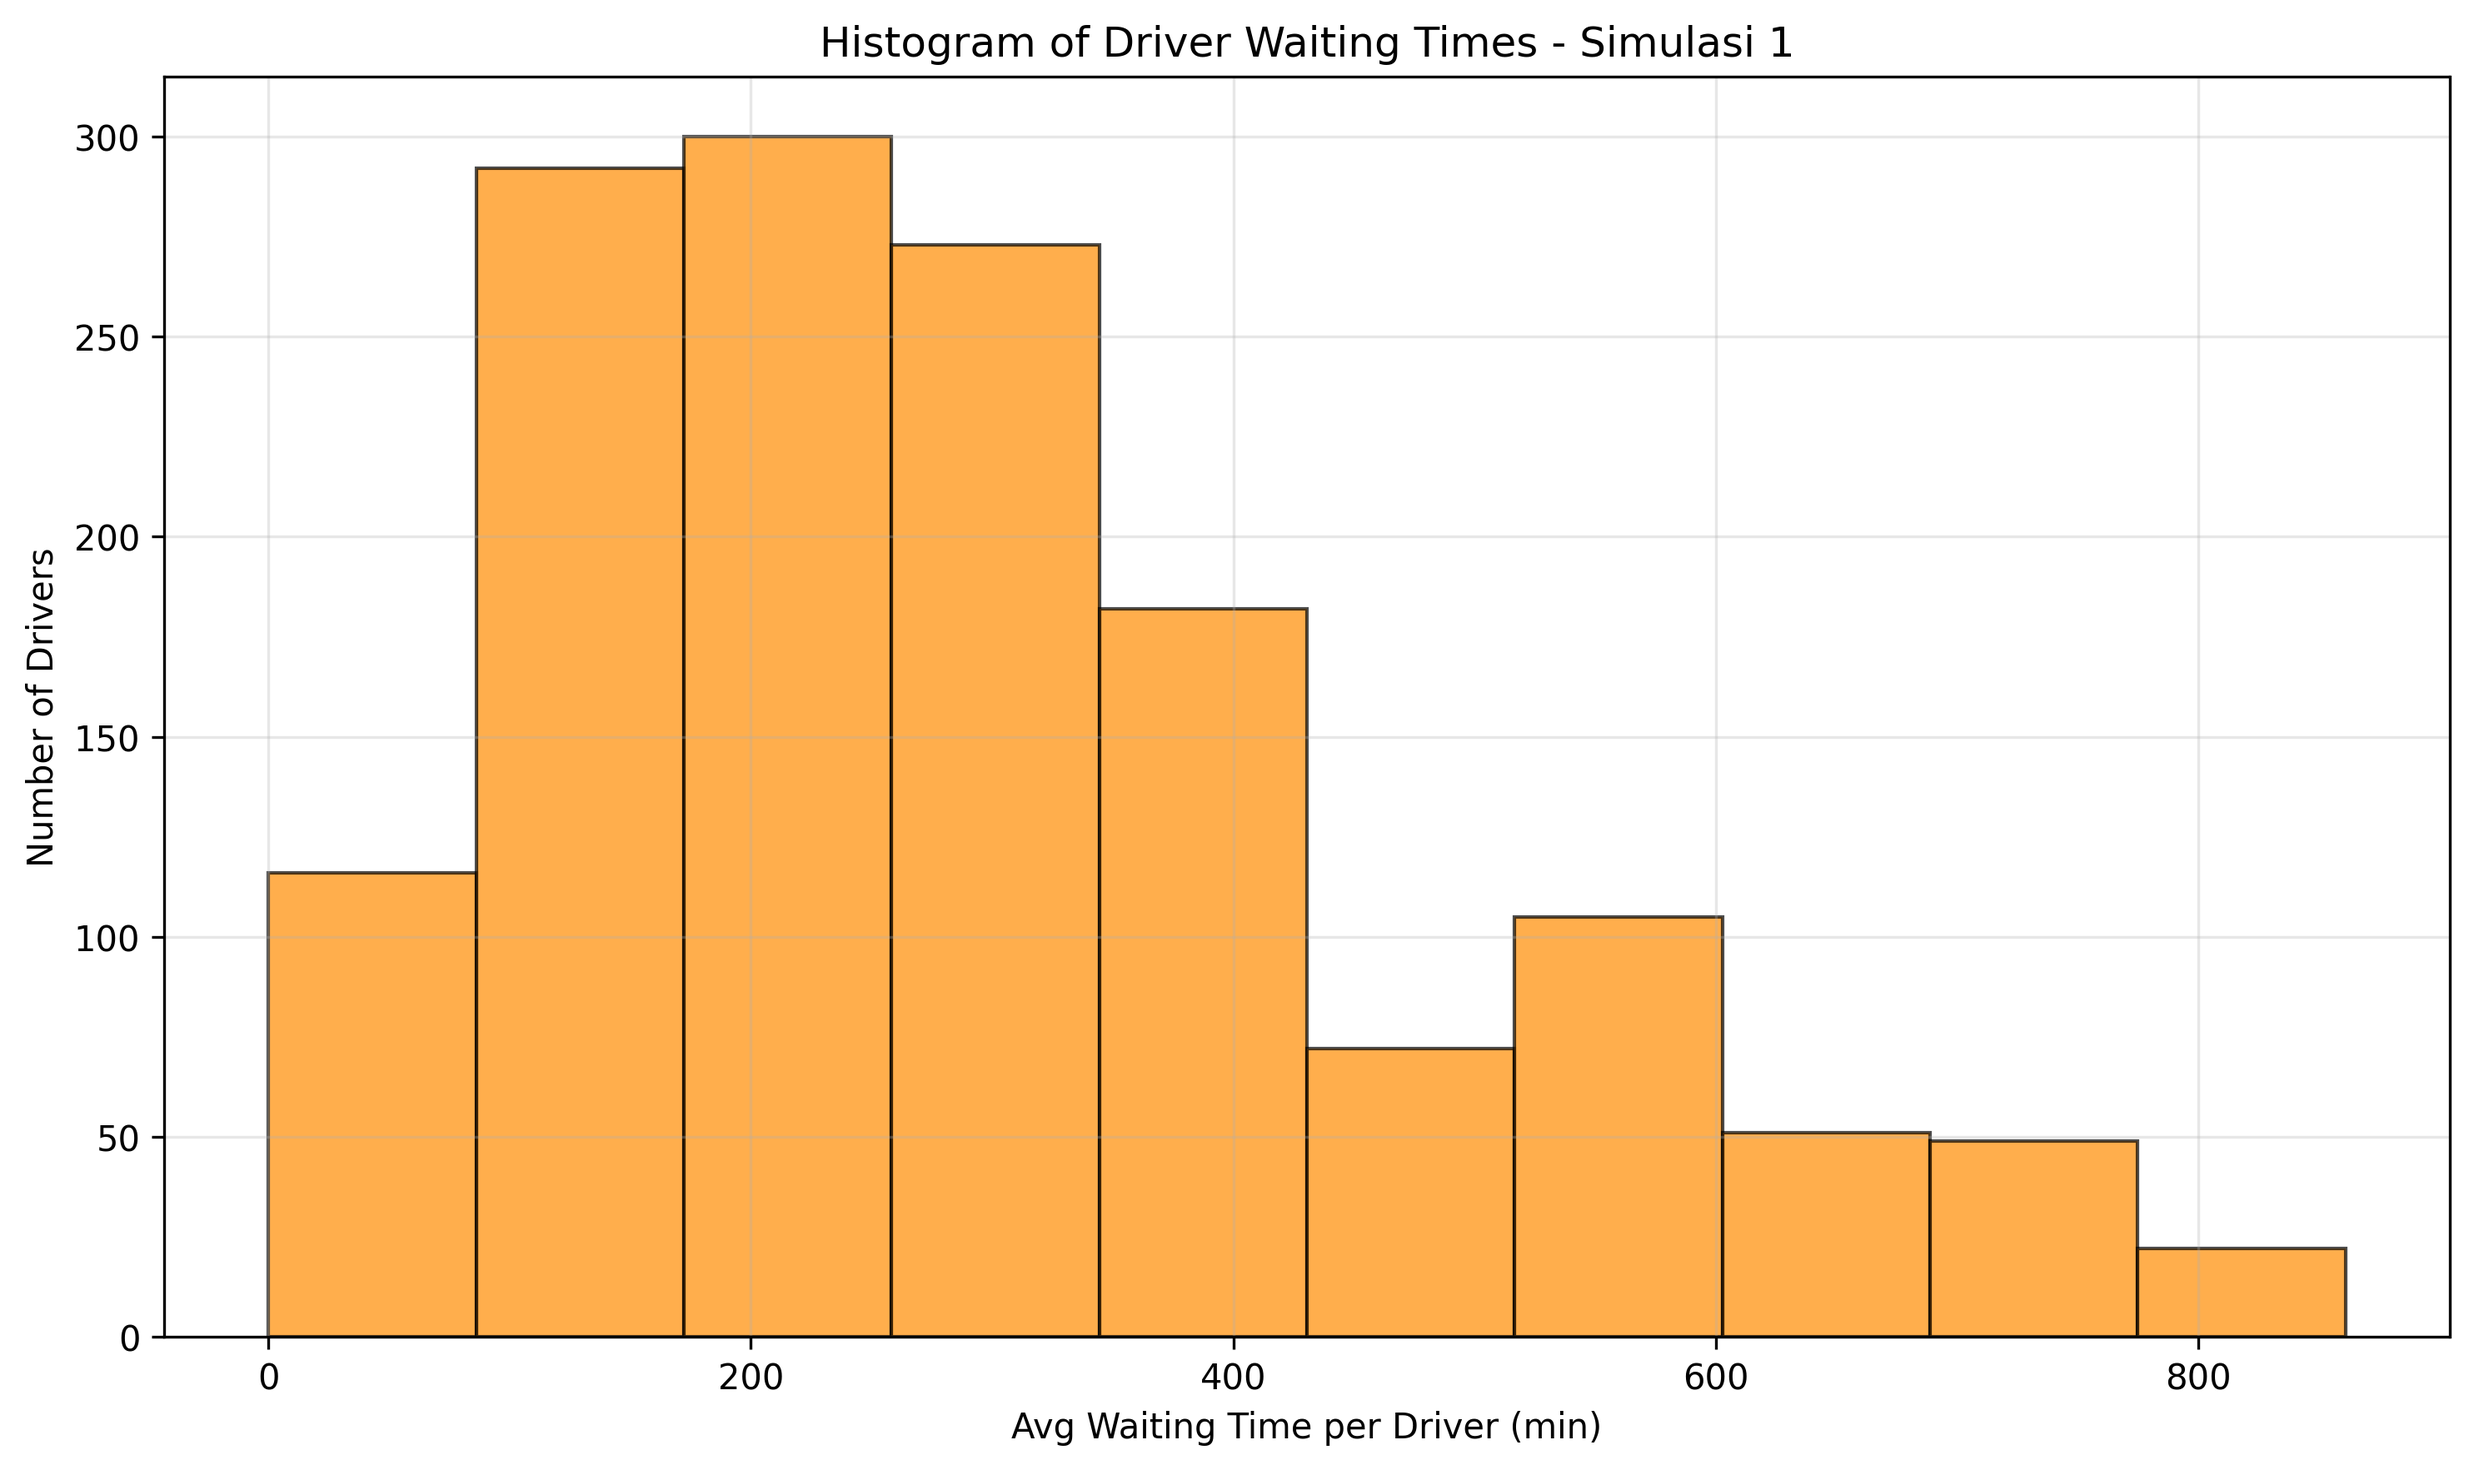
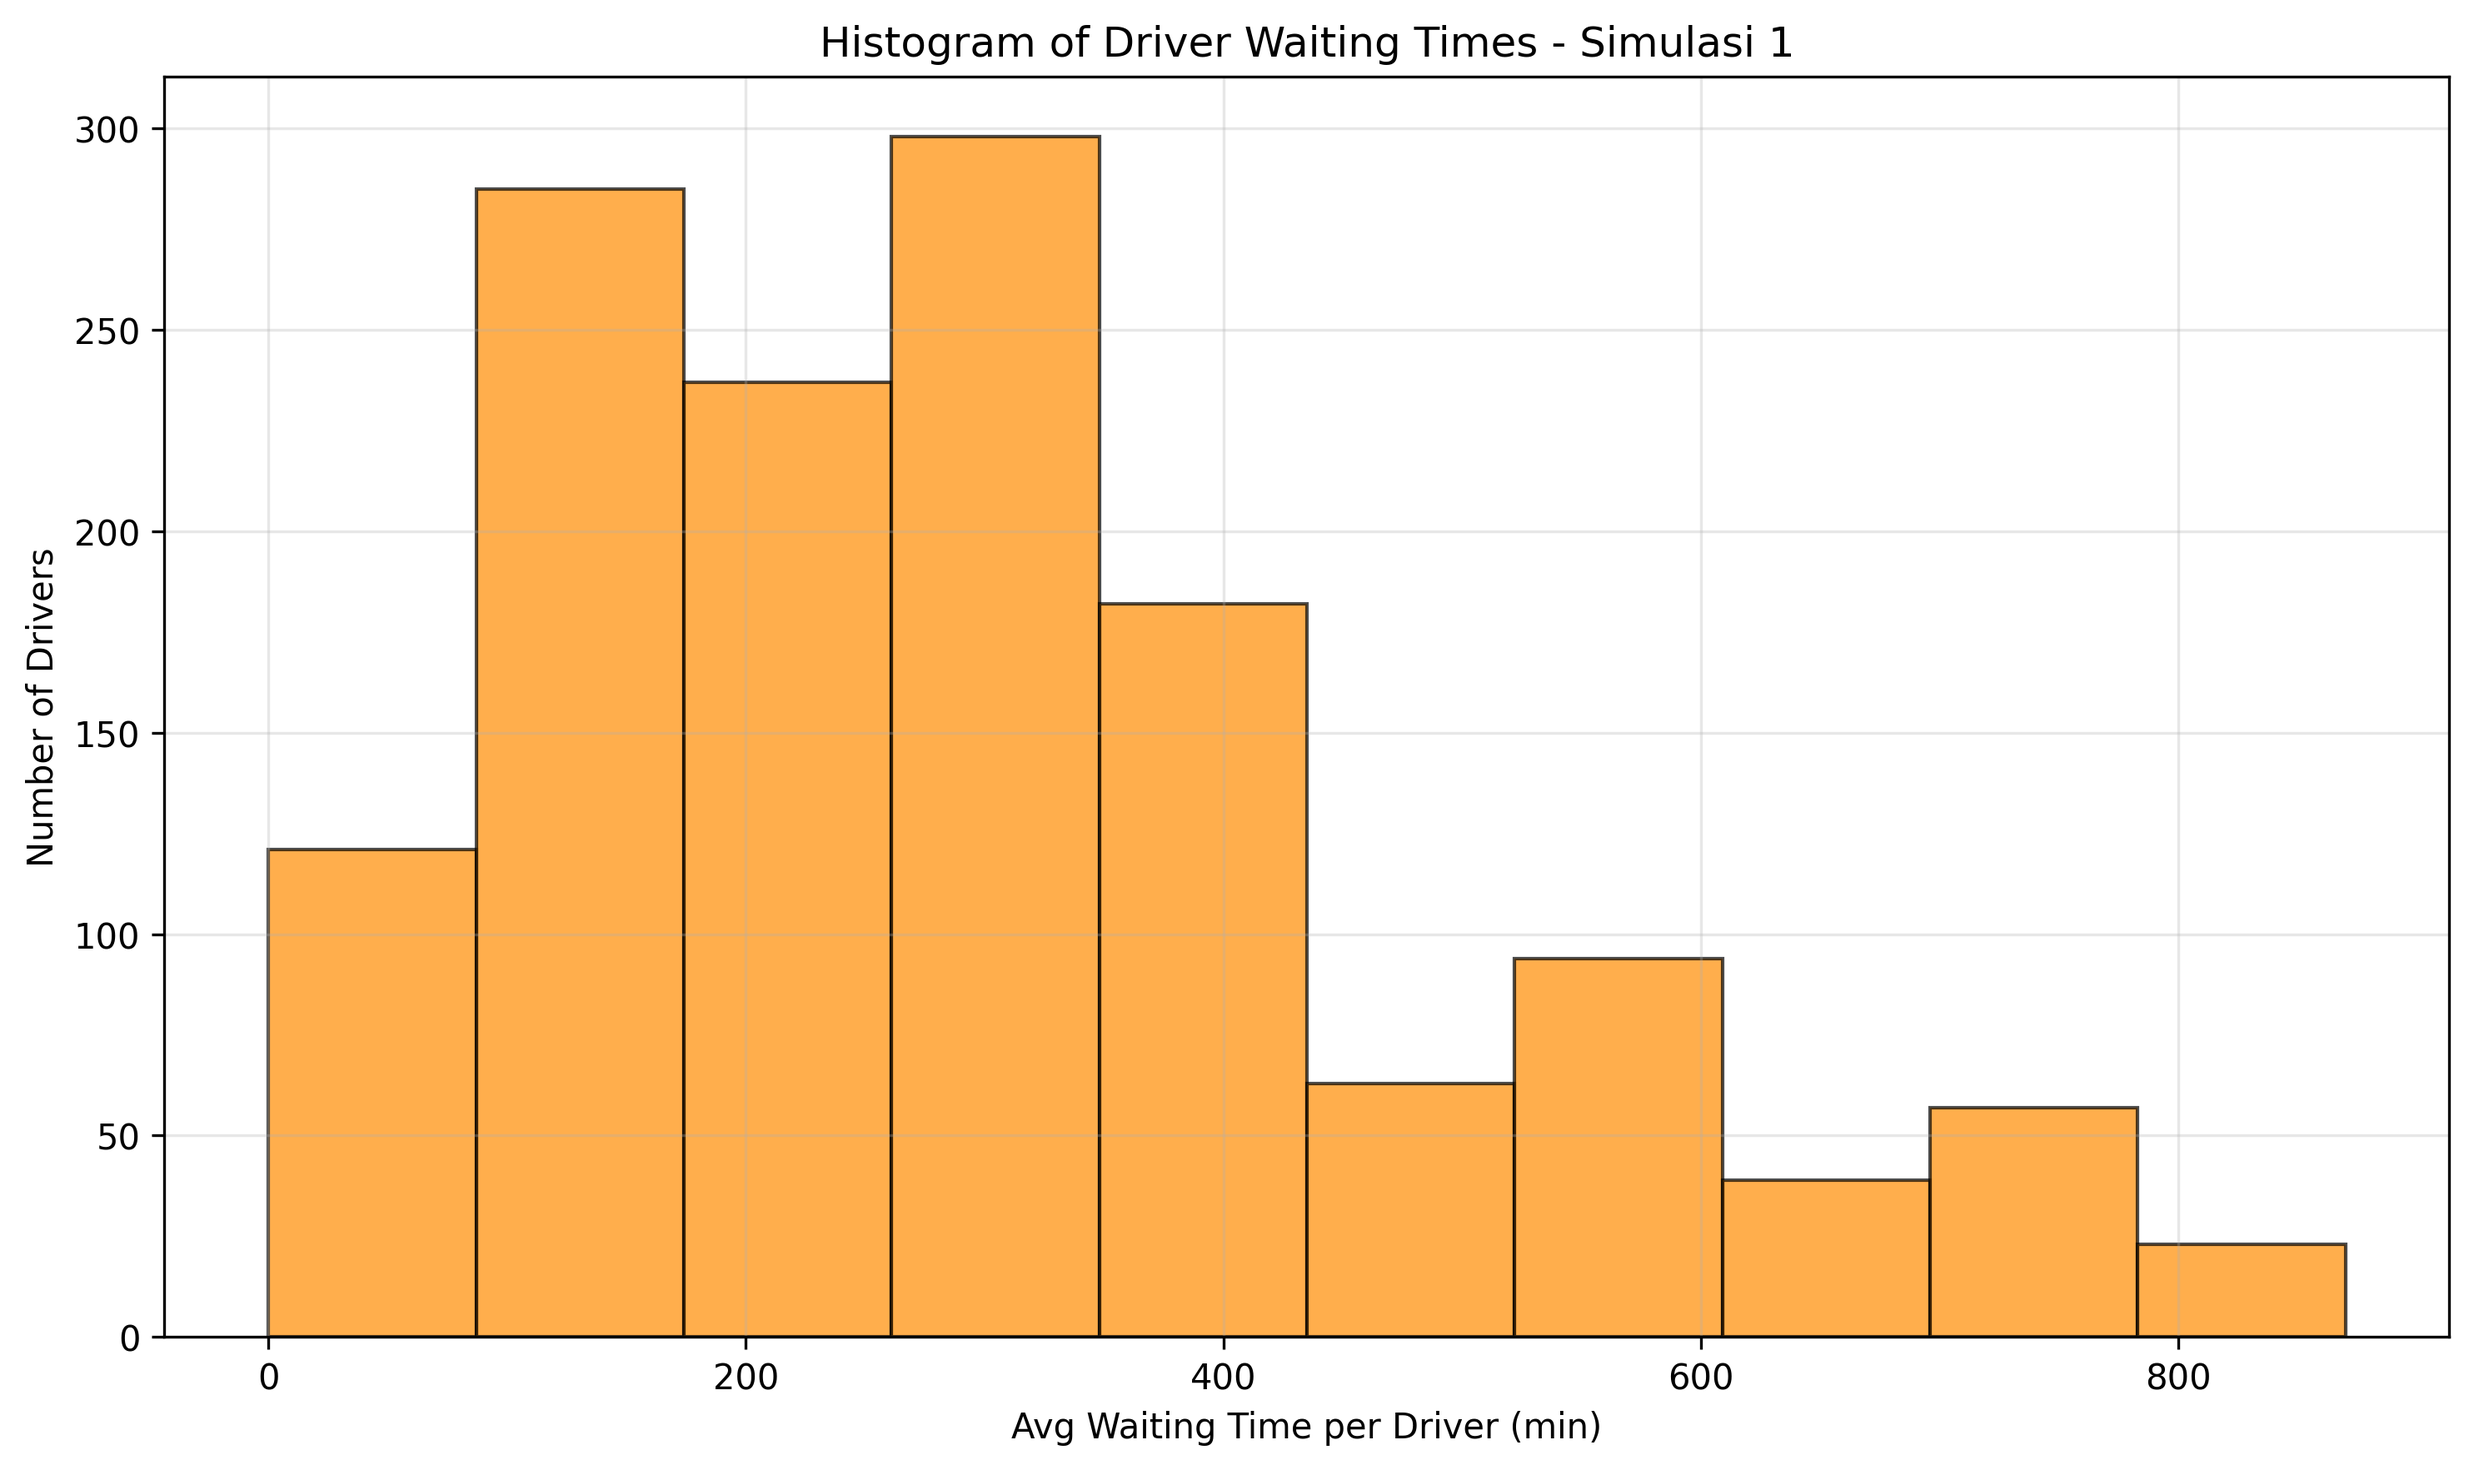
update bntr

diff --git a/simulation_testing/using_schedule/object/OrderSystem.py b/simulation_testing/using_schedule/object/OrderSystem.py
@@ -130,7 +130,7 @@ class OrderSystem:
             order.order_destination_lon = destination_lon
             order.created_at = (start_time + timedelta(minutes=self.env.now)).isoformat()
 
-            distance, duration = self.get_distance_and_duration(origin_lat, origin_lon, destination_lat, destination_lon, max_retries=2)
+            distance, duration = self.get_distance_and_duration_real(origin_lat, origin_lon, destination_lat, destination_lon, max_retries=2)
 
             # print("distance order", distance)
 
@@ -224,7 +224,7 @@ class OrderSystem:
                 total_energy_needed = ((total_distance / 65.0) * 100) + nearest_energy_to_bss
                 
                 # Check if EV has enough battery (with 20% buffer instead of 25%)
-                if (ev.battery.battery_now * (100 - ev.battery.cycle * 0.025)/100) >= (total_energy_needed + 5): # Buffer 5
+                if (ev.battery.battery_now * (100 - ev.battery.cycle * 0.025)/100) >= (total_energy_needed + 8): # Buffer 8
                     min_distance = distance_to_order
                     best_ev = ev
         
@@ -259,6 +259,26 @@ class OrderSystem:
         #     return self.haversine_distance(origin_lat, origin_lon, destination_lat, destination_lon)
         
         return self.haversine_distance(origin_lat, origin_lon, destination_lat, destination_lon)
+    
+    def get_distance_and_duration_real(self, origin_lat, origin_lon, destination_lat, destination_lon, max_retries=2):
+        """Get distance and duration with fallback"""
+        # Khusus Distance Order
+
+        try:
+            url = f"{OSRM_URL}/route/v1/driving/{origin_lon},{origin_lat};{destination_lon},{destination_lat}?overview=false"
+            response = requests.get(url, timeout=3)
+            data = response.json()
+
+            if data["code"] == "Ok":
+                route = data["routes"][0]
+                distance_km = max(round(route["distance"] / 1000, 2), 0.000001)
+                duration_min = max(round(route["duration"] / (60 * 2), 2), 0.000001)
+                return distance_km, duration_min          
+        except:
+            # Fallback to haversine calculation
+            return self.haversine_distance(origin_lat, origin_lon, destination_lat, destination_lon)
+        
+        # return self.haversine_distance(origin_lat, origin_lon, destination_lat, destination_lon)
         
     def haversine_distance(self, origin_lat, origin_lon, destination_lat, destination_lon):
         """Haversine distance calculation"""

diff --git a/simulation_testing/no_schedule/object/OrderSystem.py b/simulation_testing/no_schedule/object/OrderSystem.py
@@ -231,6 +231,24 @@ class OrderSystem:
         #     return self.haversine_distance(origin_lat, origin_lon, destination_lat, destination_lon)
         
         return self.haversine_distance(origin_lat, origin_lon, destination_lat, destination_lon)
+    
+    def get_distance_and_duration_real(self, origin_lat, origin_lon, destination_lat, destination_lon, max_retries=2):
+        """Get distance and duration with fallback"""
+        # Pakai OSRM kelamaan
+
+        try:
+            url = f"{OSRM_URL}/route/v1/driving/{origin_lon},{origin_lat};{destination_lon},{destination_lat}?overview=false"
+            response = requests.get(url, timeout=3)
+            data = response.json()
+
+            if data["code"] == "Ok":
+                route = data["routes"][0]
+                distance_km = max(round(route["distance"] / 1000, 2), 0.000001)
+                duration_min = max(round(route["duration"] / (60 * 2), 2), 0.000001)
+                return distance_km, duration_min          
+        except:
+            # Fallback to haversine calculation
+            return self.haversine_distance(origin_lat, origin_lon, destination_lat, destination_lon)
         
     def haversine_distance(self, origin_lat, origin_lon, destination_lat, destination_lon):
         """Haversine distance calculation"""

diff --git a/simulation_testing/using_schedule/simulation_utils.py b/simulation_testing/using_schedule/simulation_utils.py
@@ -37,6 +37,26 @@ def get_distance_and_duration(origin_lat, origin_lon, destination_lat, destinati
     
     return haversine_distance(origin_lat, origin_lon, destination_lat, destination_lon)
 
+def get_distance_and_duration_real(origin_lat, origin_lon, destination_lat, destination_lon):
+    # Khusus order
+
+    try:
+        url = f"{OSRM_URL}/route/v1/driving/{origin_lon},{origin_lat};{destination_lon},{destination_lat}?overview=false"
+        response = requests.get(url, timeout=3)
+        data = response.json()
+
+        if data["code"] == "Ok":
+            route = data["routes"][0]
+            distance_km = max(round(route["distance"] / 1000, 2), 0.000001)
+            duration_min = max(round(route["duration"] / (60 * 2), 2), 0.000001)
+            return distance_km, duration_min
+                    
+    except:
+        # Fallback to haversine calculation
+        return haversine_distance(origin_lat, origin_lon, destination_lat, destination_lon)
+    
+    # return haversine_distance(origin_lat, origin_lon, destination_lat, destination_lon)
+
 def haversine_distance(origin_lat, origin_lon, destination_lat, destination_lon):
     """Haversine distance calculation"""
     R = 6371

diff --git a/simulation_testing/using_schedule/simulation.py b/simulation_testing/using_schedule/simulation.py
@@ -26,6 +26,7 @@ from simulation_utils import (
     apply_schedule_to_ev_fleet,
     add_and_save_swap_schedule,
     snap_to_road,
+    get_distance_and_duration_real,
     haversine_distance
 )
 
@@ -304,8 +305,10 @@ class Simulation:
                 order.order_destination_lon = order_destination_lon
                 order.created_at = (self.start_time + timedelta(minutes=self.env.now)).isoformat()
                 order.assigned_motorbike_id = ev.id
-                order.distance = order_distance
-                order.cost = order_distance * 3000
+                distance, duration = get_distance_and_duration_real(lat, lon, order_origin_lat, order_origin_lon)
+
+                order.distance = distance
+                order.cost = distance * 3000
                 self.order_system.order_active.append(order)
                 self.order_system.total_order += 1
 
